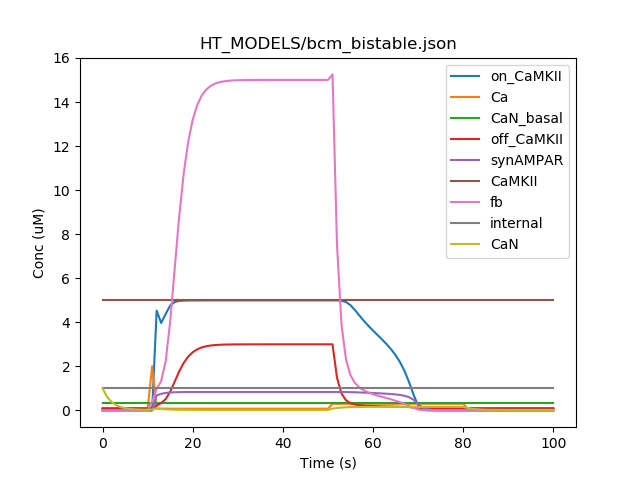
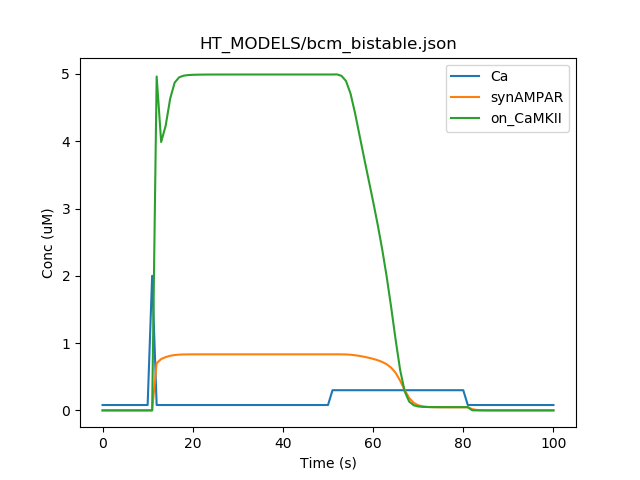
Fix to hillTau.py for handling dimensions in conversion reactions. Some clean up of documentation and examples.

diff --git a/Examples/PaperFigures/hillTau.py b/Examples/PaperFigures/hillTau.py
@@ -283,7 +283,11 @@ def scaleDict( jsonDict, qs ):
                 sp[m] = float( SIGSTR.format( sp[m] * qs ) )
         if "Reacs" in grp:
             for reacname, reac in grp['Reacs'].items():
-                reac["KA"] = float( SIGSTR.format( reac["KA"] * qs ) )
+                # Check if it is a single substrate reac
+                if len( reac["subs"] ) == 1:
+                    reac["KA"] = float( SIGSTR.format( reac["KA"] ) )
+                else:
+                    reac["KA"] = float( SIGSTR.format( reac["KA"] * qs ) )
                 reac["tau"] = float( SIGSTR.format( reac["tau"] ) )
                 tau2 = reac.get( "tau2" )
                 if tau2:
@@ -411,7 +415,8 @@ def main():
     parser.add_argument( '-p', '--plots', type = str, help='Optional: plot just the specified molecule(s). The names are specified by a comma-separated list.', default = "" )
     args = parser.parse_args()
     jsonDict = loadHillTau( args.model )
-    scaleDict( jsonDict, getQuantityScale( jsonDict ) )
+    qs = getQuantityScale( jsonDict )
+    scaleDict( jsonDict, qs )
     model = parseModel( jsonDict )
 
     runtime = args.runtime
@@ -428,7 +433,7 @@ def main():
         if len( i ) < 2:
             print( "Warning: need at least 2 args for stimulus, got {i}".format( i ) )
             continue
-        i[1] = float( i[1] )
+        i[1] = float( i[1] ) * qs # Assume stim units same as model units.
         if len(i) == 2:
             i.extend( [0.0, runtime] )
         if len(i) == 3:
@@ -446,7 +451,6 @@ def main():
     for s in stimvec:
         model.advance( s.time - currTime )
         model.conc[s.mol.index] = s.value
-        #print( "STIM: ", s.name, s.value )
         currTime = s.time
     if runtime > currTime:
         model.advance( runtime - currTime )

diff --git a/PythonCode/hillTau.py b/PythonCode/hillTau.py
@@ -283,7 +283,11 @@ def scaleDict( jsonDict, qs ):
                 sp[m] = float( SIGSTR.format( sp[m] * qs ) )
         if "Reacs" in grp:
             for reacname, reac in grp['Reacs'].items():
-                reac["KA"] = float( SIGSTR.format( reac["KA"] * qs ) )
+                # Check if it is a single substrate reac
+                if len( reac["subs"] ) == 1:
+                    reac["KA"] = float( SIGSTR.format( reac["KA"] ) )
+                else:
+                    reac["KA"] = float( SIGSTR.format( reac["KA"] * qs ) )
                 reac["tau"] = float( SIGSTR.format( reac["tau"] ) )
                 tau2 = reac.get( "tau2" )
                 if tau2:
@@ -411,7 +415,8 @@ def main():
     parser.add_argument( '-p', '--plots', type = str, help='Optional: plot just the specified molecule(s). The names are specified by a comma-separated list.', default = "" )
     args = parser.parse_args()
     jsonDict = loadHillTau( args.model )
-    scaleDict( jsonDict, getQuantityScale( jsonDict ) )
+    qs = getQuantityScale( jsonDict )
+    scaleDict( jsonDict, qs )
     model = parseModel( jsonDict )
 
     runtime = args.runtime
@@ -428,7 +433,7 @@ def main():
         if len( i ) < 2:
             print( "Warning: need at least 2 args for stimulus, got {i}".format( i ) )
             continue
-        i[1] = float( i[1] )
+        i[1] = float( i[1] ) * qs # Assume stim units same as model units.
         if len(i) == 2:
             i.extend( [0.0, runtime] )
         if len(i) == 3:
@@ -446,7 +451,6 @@ def main():
     for s in stimvec:
         model.advance( s.time - currTime )
         model.conc[s.mol.index] = s.value
-        #print( "STIM: ", s.name, s.value )
         currTime = s.time
     if runtime > currTime:
         model.advance( runtime - currTime )

diff --git a/Documentation.md b/Documentation.md
@@ -52,6 +52,7 @@ Go into the Examples directory and type:
 	python ../PythonCode/hillTau.py HT_MODELS/osc.json -r 5000
 
 ![alt text](./Images/osc.png?raw=true "Oscillatory model")
+
 This runs the oscillatory model with runtime 5000 seconds, and plots it.
 
 ### Selecting only a subset of plots
@@ -68,24 +69,32 @@ This runs the oscillatory model with runtime 5000 seconds, and plots it.
 ![alt text](./Images/singleStim_exc.png?raw=true "Apply single stimulus")
 
 Here we assign molecule 'input' to value 1 uM at time 5 seconds, and
-the stimulus turns off at 10 seconds.
+the stimulus turns off at 10 seconds. This is shown in the blue plot.
 Note that the units of the model are the default millimolar, so the
 stimulus must also be in the same units.
 
 ### Giving multiple stimuli
 
-	python ../PythonCode/hillTau.py HT_MODELS/bcm_bistable.json -r 100 -s Ca 2 10 11 -s Ca 0.3 50 80
+	python ../PythonCode/hillTau.py HT_MODELS/bcm_bistable.json -r 100 -s Ca 2 10 11 -s Ca 0.3 50 80 -p Ca,synAMPAR,on_CaMKII
 ![alt text](./Images/doubleStim_synapse.png?raw=true "Apply double stimulus")
 
-Here we give a brief strong Ca stimulus to turn on the bistable, and a long,
-low Ca stimulus to turn it off again.
+This model has a bistable mediated by CaMKII feedback, which is triggered by
+a Ca input. There is also a Ca-activated phosphatase CaN which acts to 
+inhibit and hence turn off the activity of the CaMKII. Thus the Ca input 
+both excites the CaMKII, and via CaN, inhibits it. These two counteracting
+processes act at different speeds and concentrations.
 
+Here we give a brief strong Ca stimulus to turn on the bistable, and a long,
+low Ca stimulus to turn it off again. The CaMKII in turn activates the
+synaptic AMPA receptor (synAMPAR) as a readout of synaptic weight. Note that 
+the model units are in uM (micromolar), and so the stimulus units are 
+handled also in uM.
 
 
 ## Use of HillTau as a library
 
 HillTau is a Python script, so there are a lot of functions you can access
-if you want. Only four are needed or recommended:
+if you want. Only a few are needed or recommended:
 
 1. loadHillTau( filename )
 

diff --git a/README.md b/README.md
@@ -6,7 +6,7 @@ Sparse, efficient, non-ODE approximation for biochemical signaling
 Copyright (C) Upinder S. Bhalla and NCBS-TIFR, 2020
 
 
-Contents of this repository:
+## Contents of this repository:
 
 README.md: this file
 
@@ -16,6 +16,14 @@ PythonCode: The code to run HillTau.
 
 [Documentation for HillTau](Documentation.md)
 
+## Installation
+Copy the two files hillTau.py and hillTauSchema.py from PythonCode to your
+target directory.
+
+## Versions
+HillTau has been tested with Python 2.7.17 and Python 3.6.9
+
+## Examples
 Examples: Directory with examples
 
 Examples/HT_MODELS: Examples of HillTau models
@@ -25,6 +33,6 @@ Examples/KKIT_MODELS: Examples of KKIT models which map to the HillTau ones.o		K
 
 Examples/PaperFigures: Using the HillTau form to generate the figures for the
 	reference paper for HillTau. Most of these require MOOSE to be 
-	installed, but fig1.py is just HillTau.
+	installed, but fig1.py just requires HillTau.
 
 Other projects and papers that relate to HillTau: [Resources.md](Resources.md)
